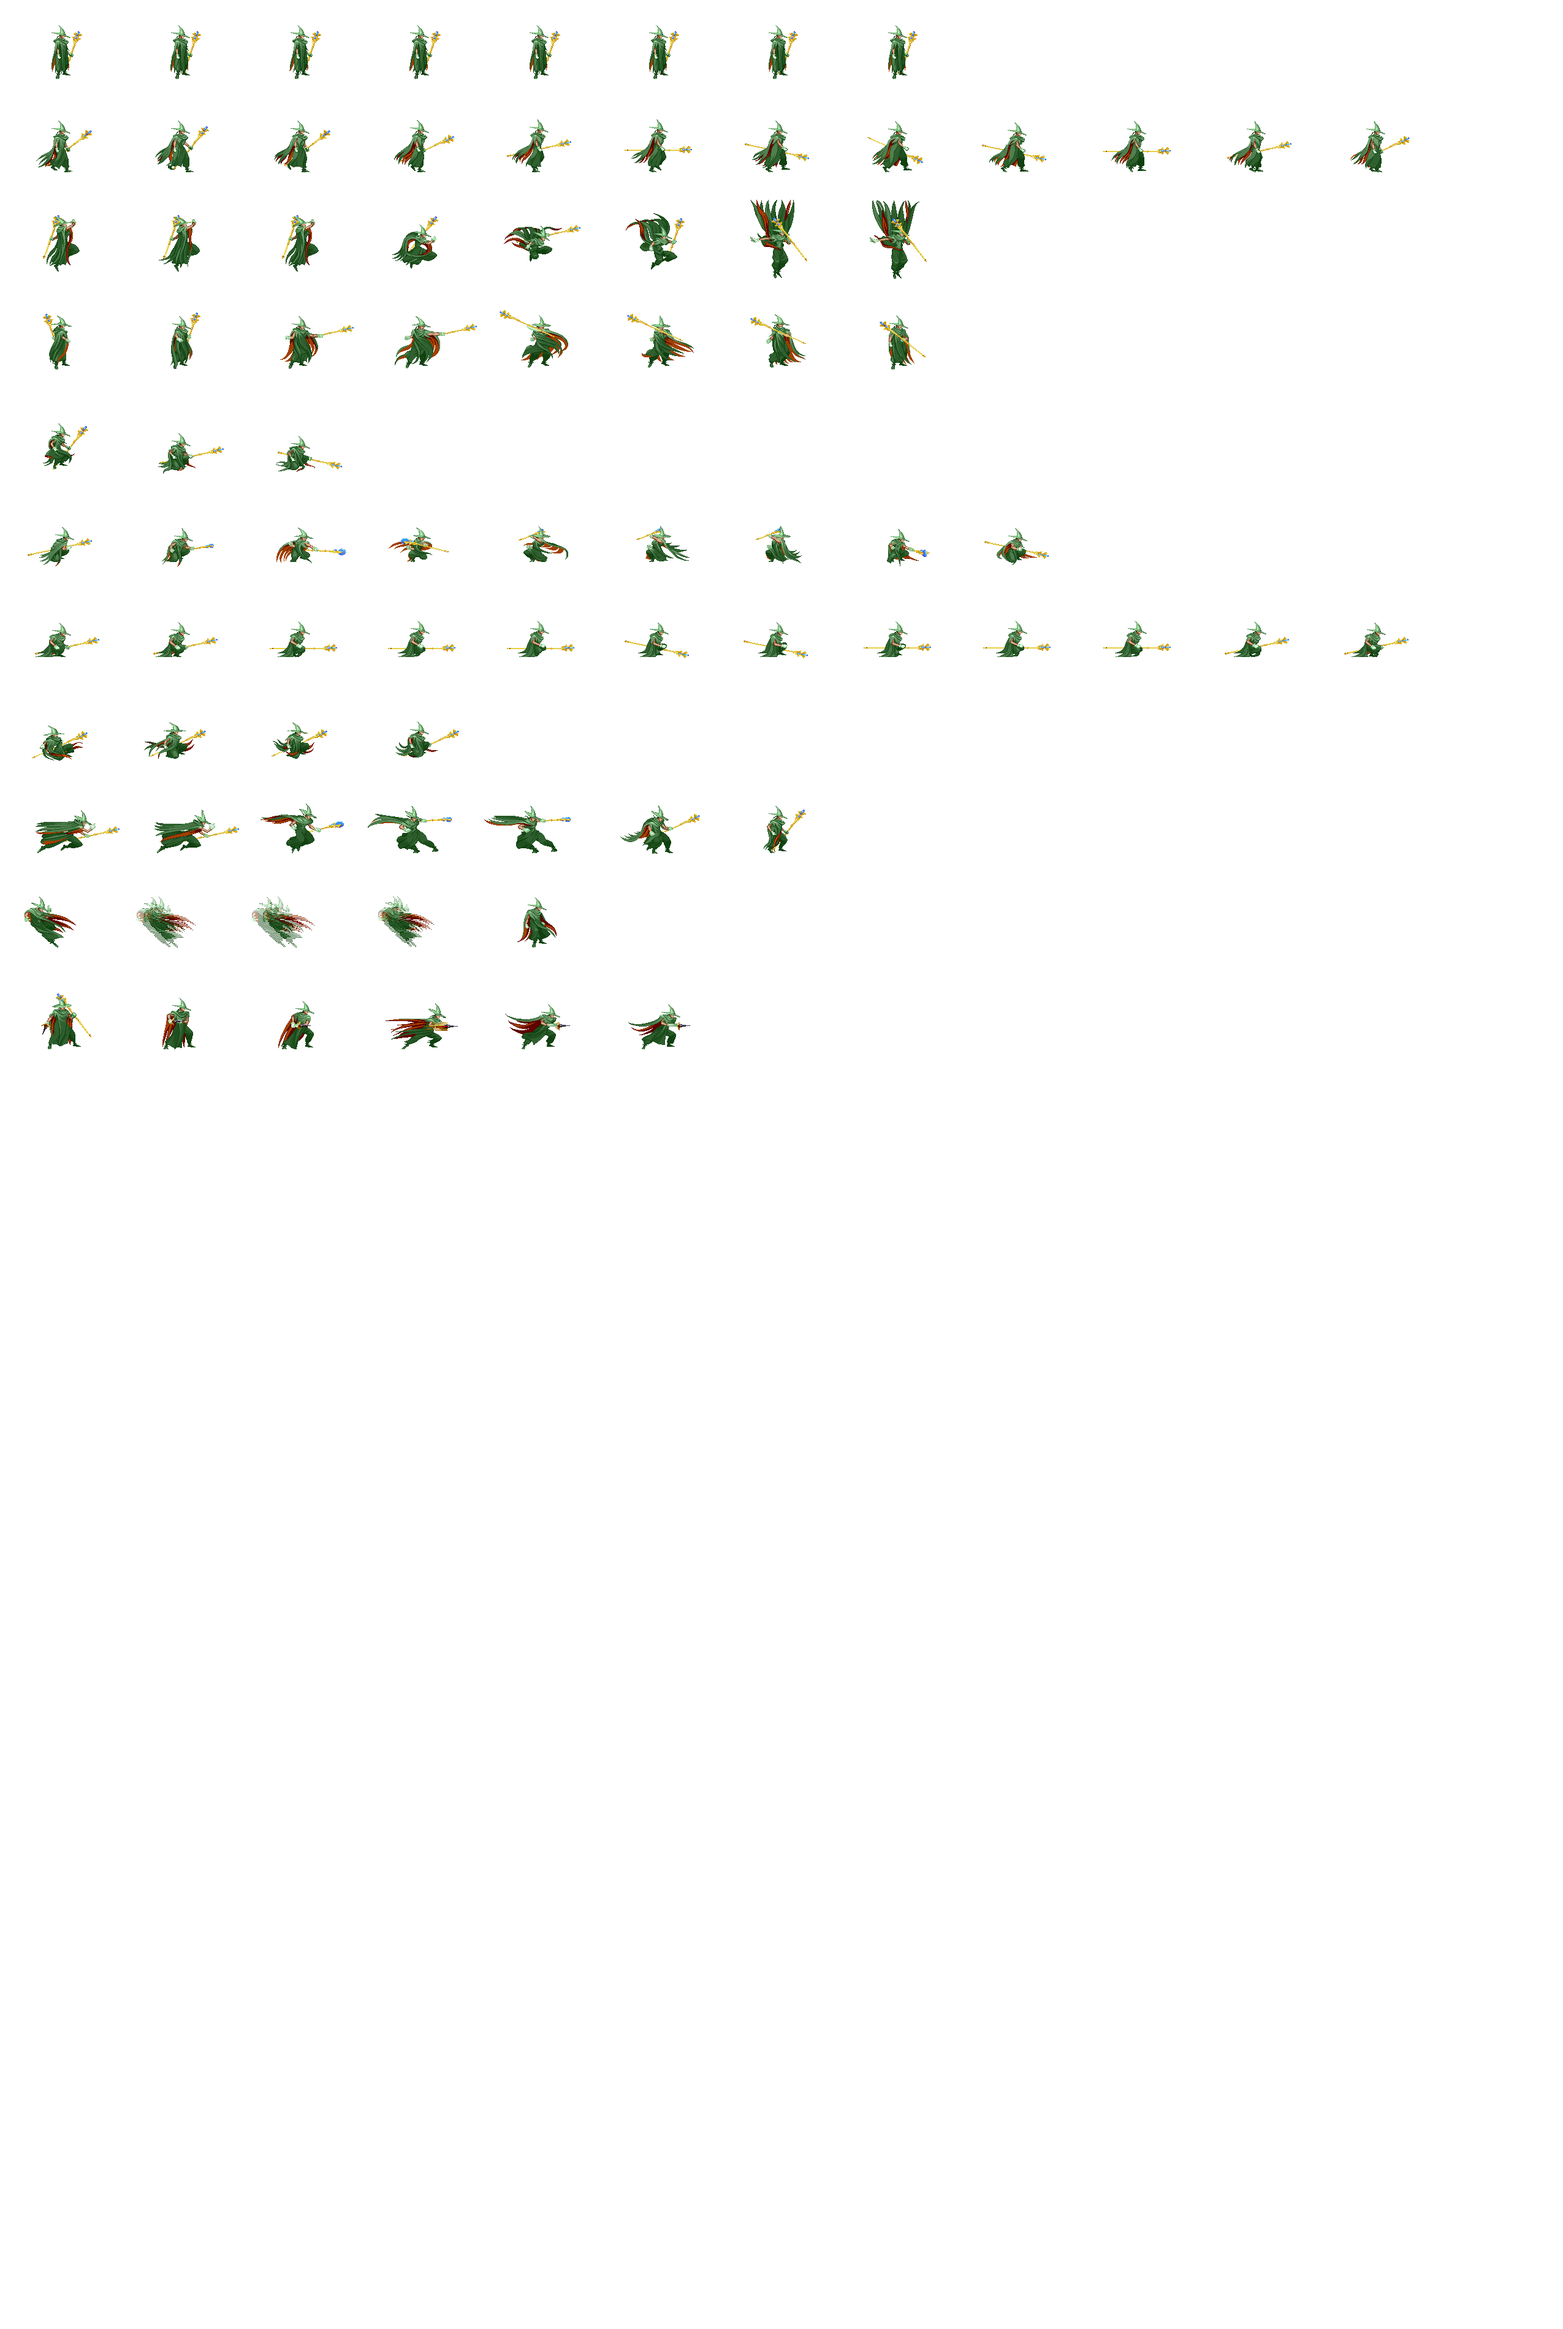
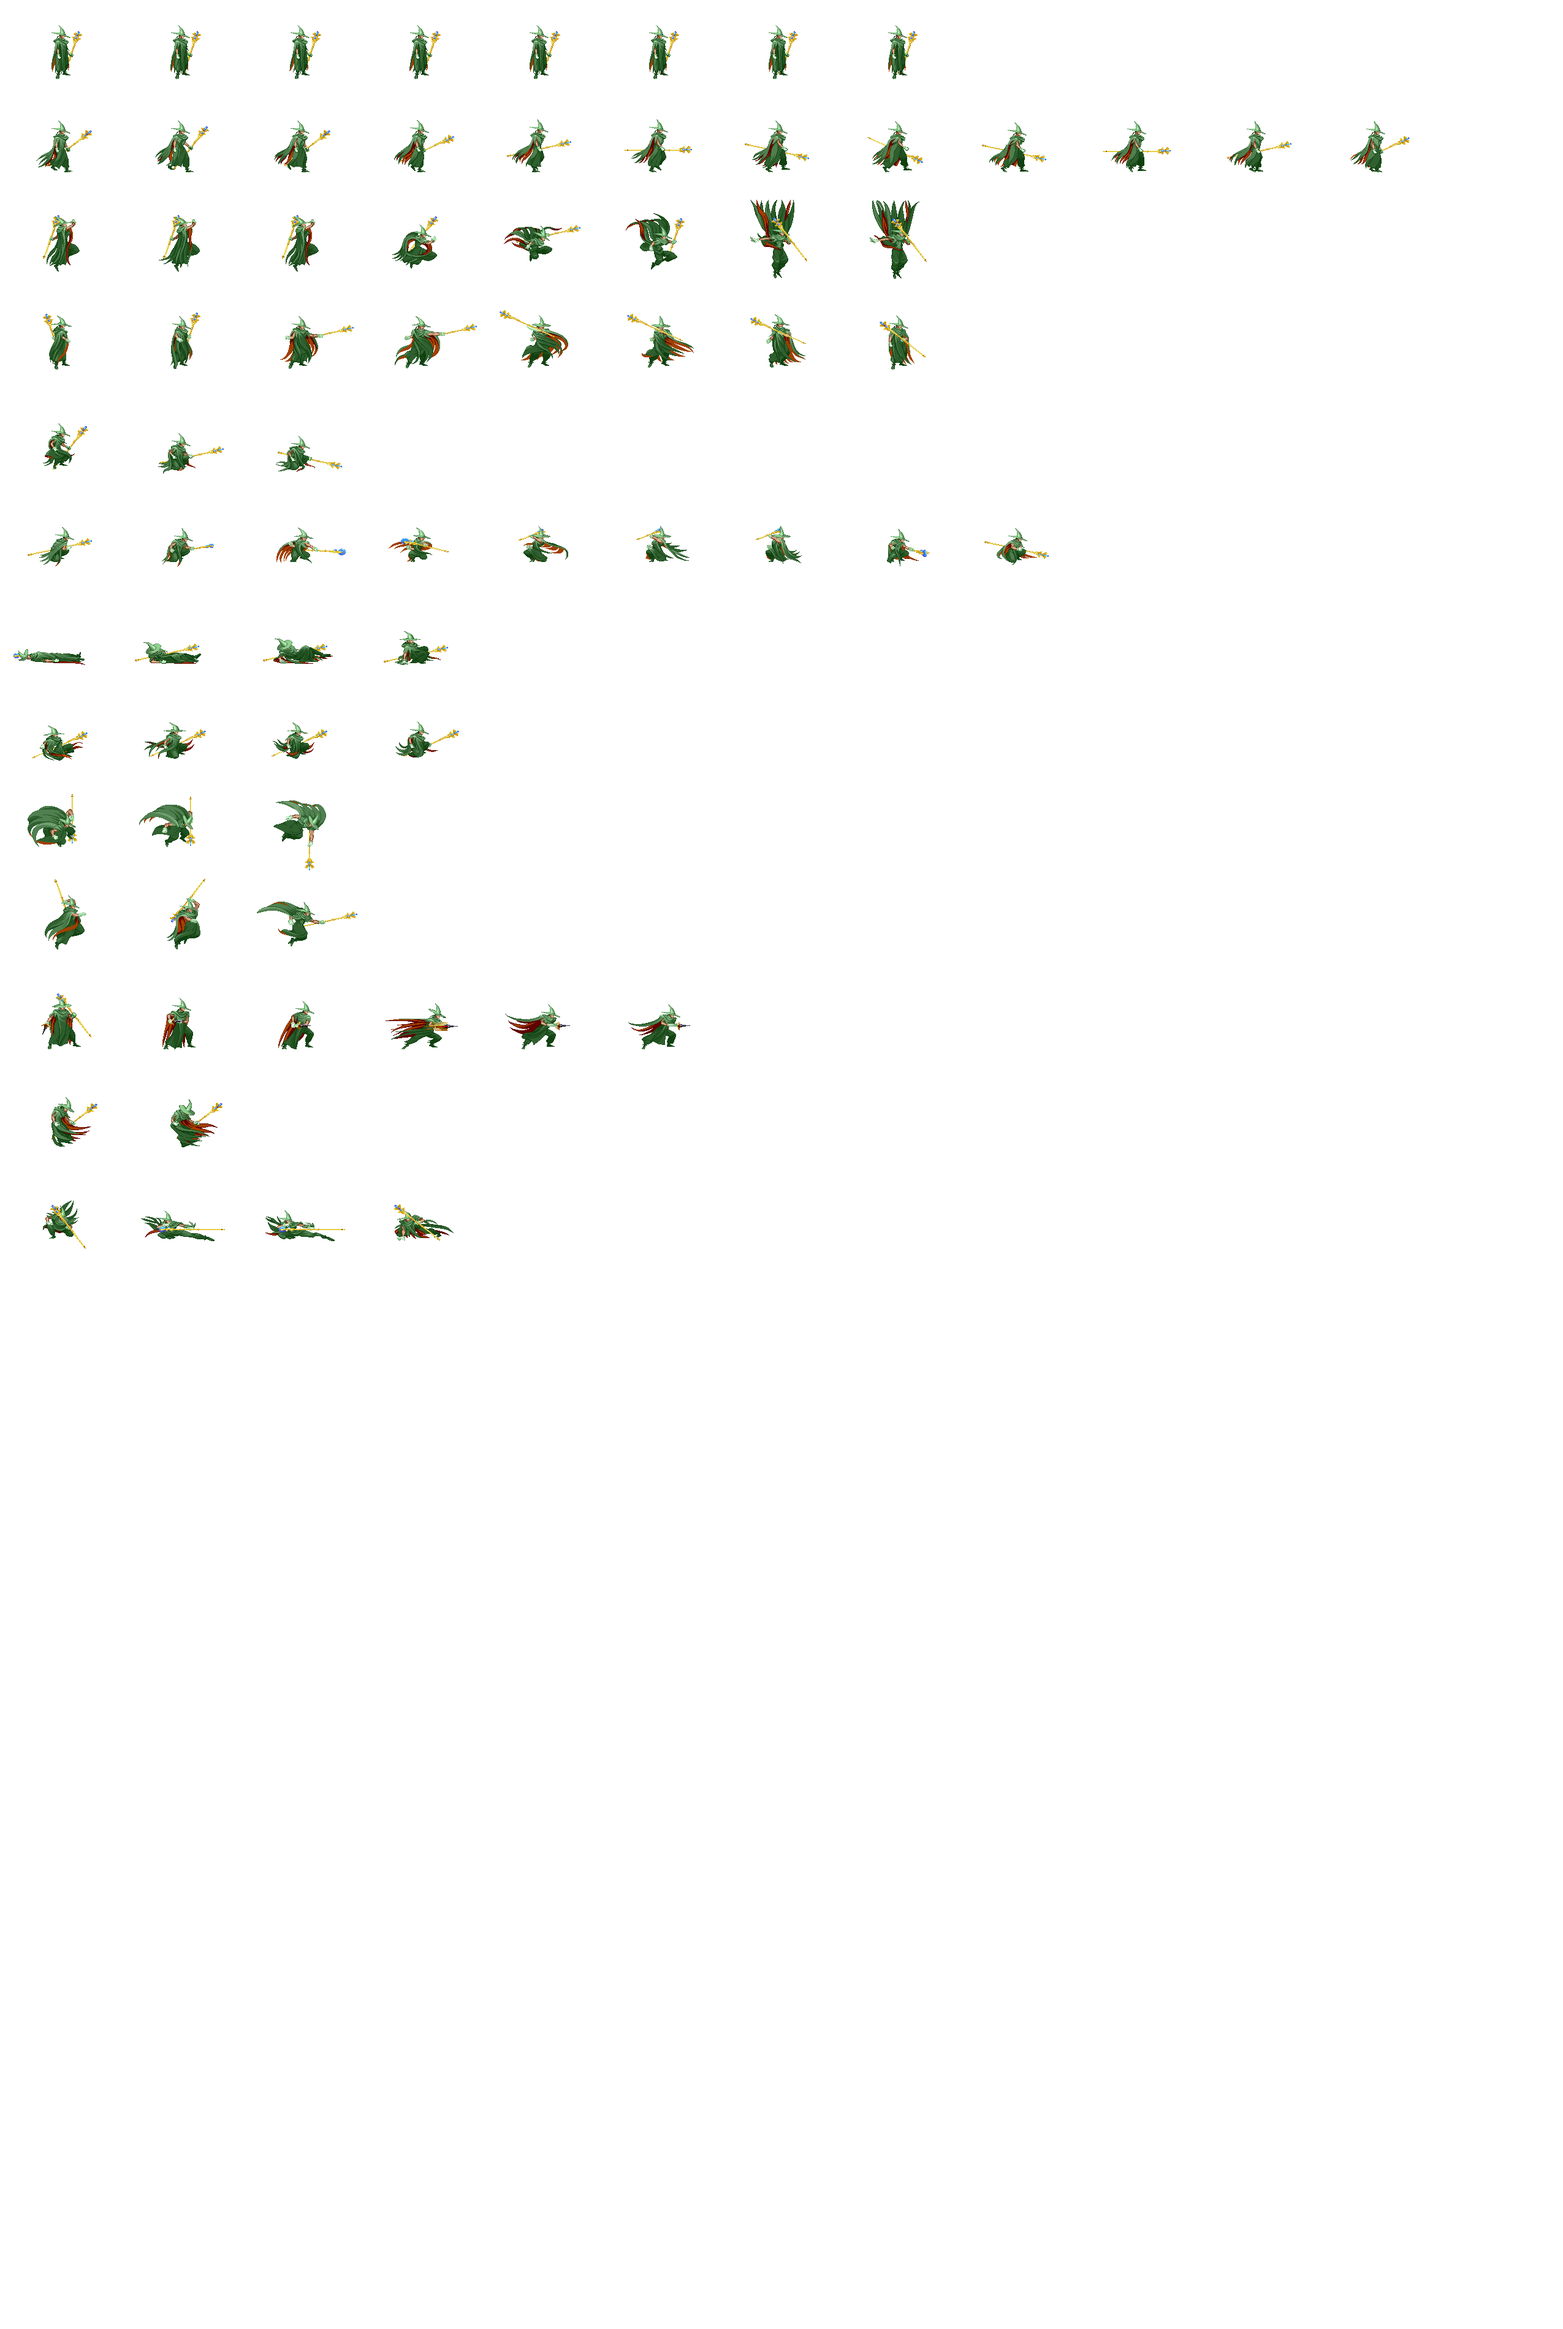
All mage basic attacks implemented

diff --git a/src/Mage.cpp b/src/Mage.cpp
@@ -72,6 +72,15 @@ Mage::Mage(character_deff character, int x_pos, bool _fliped, int lane) : Charac
 	light_attack.speed = character.st_l.animation_speed;
 
 
+	crouching_light.PushBack({ 0,158 * 12,195, 158 });
+	crouching_light.PushBack({ 195,158 * 12,195, 158 });
+	crouching_light.PushBack({ 195 * 2,158 * 12,195, 158 }, ACTIVE);
+	crouching_light.PushBack({ 195 * 3,158 * 12,195, 158 });
+
+	crouching_light.loop = false;
+	crouching_light.speed = character.cr_l.animation_speed;
+
+
 	heavy_attack.PushBack({ 0,158 * 3,195, 158 });
 	heavy_attack.PushBack({ 195,158 * 3,195, 158 });
 	heavy_attack.PushBack({ 195 * 2,158 * 3,195, 158 });
@@ -109,8 +118,42 @@ Mage::Mage(character_deff character, int x_pos, bool _fliped, int lane) : Charac
 	jump.loop = false;
 	jump.speed = 0.2;
 
+	jumping_light.PushBack({ 0      ,158 * 9,195,158 });
+	jumping_light.PushBack({ 195    ,158 * 9,195,158 });
+	jumping_light.PushBack({ 195 * 2,158 * 9,195,158 }, ACTIVE);
 
+	jumping_light.loop = false;
+	jumping_light.speed = character.jm_l.animation_speed;
 
+	jumping_heavy.PushBack({ 0      ,158 * 8,195,158 });
+	jumping_heavy.PushBack({ 195    ,158 * 8,195,158 });
+	jumping_heavy.PushBack({ 195 * 2,158 * 8,195,158 }, ACTIVE);
+
+	jumping_heavy.loop = false;
+	jumping_heavy.speed = character.jm_h.animation_speed;
+
+	standing_hit.PushBack({ 0, 158 * 11, 195, 158 });
+	standing_hit.PushBack({ 195, 158 * 11, 195, 158 });
+
+	standing_hit.loop = true;
+	standing_hit.speed = 0.2;
+
+	knockdown.PushBack({ 0      , 158 * 6, 195, 158 });
+	knockdown.PushBack({ 0      , 158 * 6, 195, 158 });
+	knockdown.PushBack({ 0      , 158 * 6, 195, 158 });
+	knockdown.PushBack({ 0      , 158 * 6, 195, 158 });
+	knockdown.PushBack({ 0      , 158 * 6, 195, 158 }); // It works for me
+	knockdown.PushBack({ 195    , 158 * 6, 195, 158 });
+	knockdown.PushBack({ 195 * 2, 158 * 6, 195, 158 });
+	knockdown.PushBack({ 195 * 3, 158 * 6, 195, 158 });
+
+	knockdown.loop = false;
+	knockdown.speed = 0.1;
+
+	dead.PushBack({ 0      , 158 * 6, 195, 158 });
+
+	dead.loop = true;
+	dead.speed = 0.1;
 
 	// Basic attack definitions
 
